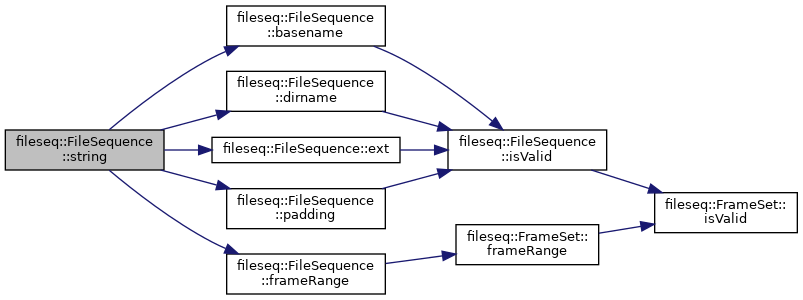
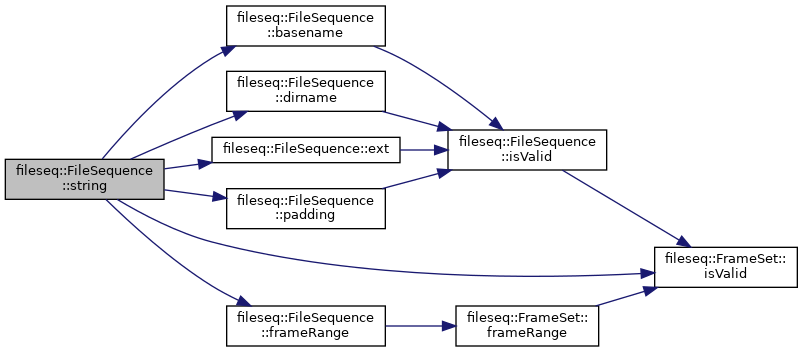
Deploying to gh-pages from  @ 2945e64885de763943607aee84610ac031805a93 🚀

Changed region(s): [[0.0, 0.0, 0.9963, 0.99]]

diff --git a/cpp/classfileseq_1_1FileSequence.html b/cpp/classfileseq_1_1FileSequence.html
@@ -446,19 +446,19 @@ Here is the call graph for this function:</div>
 <div class="dyncontent">
 <div class="center"><img src="classfileseq_1_1FileSequence_abfd5119cca762494812e1708d451a854_cgraph.png" border="0" usemap="#aclassfileseq_1_1FileSequence_abfd5119cca762494812e1708d451a854_cgraph" alt=""/></div>
 <map name="aclassfileseq_1_1FileSequence_abfd5119cca762494812e1708d451a854_cgraph" id="aclassfileseq_1_1FileSequence_abfd5119cca762494812e1708d451a854_cgraph">
-<area shape="rect" title=" " alt="" coords="5,149,164,191"/>
-<area shape="rect" href="classfileseq_1_1FileSequence.html#a54bcf839d417f53f5517990b13e65de1" title=" " alt="" coords="441,100,600,141"/>
-<area shape="rect" href="classfileseq_1_1FileSequence.html#aa64b80899eebaa347e8ca2d6ac0deeb4" title=" " alt="" coords="212,35,379,76"/>
-<area shape="rect" href="classfileseq_1_1FileSequence.html#aab5d82469fc7296ac7c212bbf806f4a4" title=" " alt="" coords="663,231,821,272"/>
-<area shape="rect" href="classfileseq_1_1FileSequence.html#a31670fc375b42ac11a8e5b9b1fb37550" title=" " alt="" coords="216,215,375,256"/>
-<area shape="rect" href="classfileseq_1_1FrameSet.html#aa0fe9ca91313bae1f53259ed335173ed" title=" " alt="" coords="671,100,813,141"/>
-<area shape="rect" href="classfileseq_1_1FrameSet.html#ad21ec89be706fa51cbcfaa54ea9d06f1" title="Return whether the FrameSet is properly parsed and valid as a range." alt="" coords="869,100,1012,141"/>
-<area shape="rect" href="classfileseq_1_1FrameSet.html#ae25d6ad884ac8551c23993ba60d7cb07" title=" " alt="" coords="663,5,821,47"/>
-<area shape="rect" href="classfileseq_1_1FileSequence.html#a3caef0f425d08e88b6f98a16248b61e5" title=" " alt="" coords="441,35,600,76"/>
-<area shape="rect" href="classfileseq_1_1FileSequence.html#a9f1f61df010ce00c74a5467b4d662139" title=" " alt="" coords="441,231,600,272"/>
-<area shape="rect" href="classfileseq_1_1FileSequence.html#af7e598b352ff7a6cd22b419fd7c17f0f" title=" " alt="" coords="441,296,600,337"/>
-<area shape="rect" href="classfileseq_1_1FileSequence.html#a5f9e2963d9aaa9acbbb03ce9272253cd" title=" " alt="" coords="427,362,615,389"/>
-<area shape="rect" href="classfileseq_1_1FileSequence.html#a9c1e99d9a9076bb0a19059d4db513502" title=" " alt="" coords="441,165,600,207"/>
+<area shape="rect" title=" " alt="" coords="5,119,164,161"/>
+<area shape="rect" href="classfileseq_1_1FileSequence.html#a54bcf839d417f53f5517990b13e65de1" title=" " alt="" coords="441,90,600,131"/>
+<area shape="rect" href="classfileseq_1_1FileSequence.html#aa64b80899eebaa347e8ca2d6ac0deeb4" title=" " alt="" coords="212,25,379,66"/>
+<area shape="rect" href="classfileseq_1_1FileSequence.html#aab5d82469fc7296ac7c212bbf806f4a4" title=" " alt="" coords="663,207,821,249"/>
+<area shape="rect" href="classfileseq_1_1FileSequence.html#a31670fc375b42ac11a8e5b9b1fb37550" title=" " alt="" coords="216,273,375,314"/>
+<area shape="rect" href="classfileseq_1_1FrameSet.html#aa0fe9ca91313bae1f53259ed335173ed" title=" " alt="" coords="671,117,813,158"/>
+<area shape="rect" href="classfileseq_1_1FrameSet.html#ad21ec89be706fa51cbcfaa54ea9d06f1" title="Return whether the FrameSet is properly parsed and valid as a range." alt="" coords="869,162,1012,203"/>
+<area shape="rect" href="classfileseq_1_1FrameSet.html#ae25d6ad884ac8551c23993ba60d7cb07" title=" " alt="" coords="663,9,821,50"/>
+<area shape="rect" href="classfileseq_1_1FileSequence.html#a3caef0f425d08e88b6f98a16248b61e5" title=" " alt="" coords="441,25,600,66"/>
+<area shape="rect" href="classfileseq_1_1FileSequence.html#a9f1f61df010ce00c74a5467b4d662139" title=" " alt="" coords="441,207,600,249"/>
+<area shape="rect" href="classfileseq_1_1FileSequence.html#af7e598b352ff7a6cd22b419fd7c17f0f" title=" " alt="" coords="441,273,600,314"/>
+<area shape="rect" href="classfileseq_1_1FileSequence.html#a5f9e2963d9aaa9acbbb03ce9272253cd" title=" " alt="" coords="427,339,615,365"/>
+<area shape="rect" href="classfileseq_1_1FileSequence.html#a9c1e99d9a9076bb0a19059d4db513502" title=" " alt="" coords="441,390,600,431"/>
 </map>
 </div>
 
@@ -609,20 +609,20 @@ Here is the call graph for this function:</div>
 <div class="dyncontent">
 <div class="center"><img src="classfileseq_1_1FileSequence_ac84cfed04bd91ea024b9c263c8689636_cgraph.png" border="0" usemap="#aclassfileseq_1_1FileSequence_ac84cfed04bd91ea024b9c263c8689636_cgraph" alt=""/></div>
 <map name="aclassfileseq_1_1FileSequence_ac84cfed04bd91ea024b9c263c8689636_cgraph" id="aclassfileseq_1_1FileSequence_ac84cfed04bd91ea024b9c263c8689636_cgraph">
-<area shape="rect" title=" " alt="" coords="5,190,164,232"/>
-<area shape="rect" href="classfileseq_1_1FileSequence.html#aa0ac049cc72d0d9f41e0a520ff696d41" title=" " alt="" coords="212,157,371,198"/>
-<area shape="rect" href="classfileseq_1_1FrameSet.html#ad21ec89be706fa51cbcfaa54ea9d06f1" title="Return whether the FrameSet is properly parsed and valid as a range." alt="" coords="861,294,1004,336"/>
-<area shape="rect" href="classfileseq_1_1FrameSet.html#abe148f0686f029e54040d89e29985252" title=" " alt="" coords="441,412,584,453"/>
-<area shape="rect" href="classfileseq_1_1FileSequence.html#a31670fc375b42ac11a8e5b9b1fb37550" title=" " alt="" coords="212,222,371,264"/>
-<area shape="rect" href="classfileseq_1_1FileSequence.html#a9f1f61df010ce00c74a5467b4d662139" title=" " alt="" coords="433,98,592,140"/>
-<area shape="rect" href="classfileseq_1_1FileSequence.html#af7e598b352ff7a6cd22b419fd7c17f0f" title=" " alt="" coords="433,164,592,205"/>
-<area shape="rect" href="classfileseq_1_1FileSequence.html#a5f9e2963d9aaa9acbbb03ce9272253cd" title=" " alt="" coords="419,230,607,256"/>
+<area shape="rect" title=" " alt="" coords="5,194,164,235"/>
+<area shape="rect" href="classfileseq_1_1FileSequence.html#aa0ac049cc72d0d9f41e0a520ff696d41" title=" " alt="" coords="212,161,371,202"/>
+<area shape="rect" href="classfileseq_1_1FrameSet.html#ad21ec89be706fa51cbcfaa54ea9d06f1" title="Return whether the FrameSet is properly parsed and valid as a range." alt="" coords="861,369,1004,410"/>
+<area shape="rect" href="classfileseq_1_1FrameSet.html#abe148f0686f029e54040d89e29985252" title=" " alt="" coords="441,489,584,530"/>
+<area shape="rect" href="classfileseq_1_1FileSequence.html#a31670fc375b42ac11a8e5b9b1fb37550" title=" " alt="" coords="212,226,371,267"/>
+<area shape="rect" href="classfileseq_1_1FileSequence.html#a9f1f61df010ce00c74a5467b4d662139" title=" " alt="" coords="433,98,592,139"/>
+<area shape="rect" href="classfileseq_1_1FileSequence.html#af7e598b352ff7a6cd22b419fd7c17f0f" title=" " alt="" coords="433,163,592,205"/>
+<area shape="rect" href="classfileseq_1_1FileSequence.html#a5f9e2963d9aaa9acbbb03ce9272253cd" title=" " alt="" coords="419,229,607,256"/>
 <area shape="rect" href="classfileseq_1_1FileSequence.html#a3caef0f425d08e88b6f98a16248b61e5" title=" " alt="" coords="433,33,592,74"/>
 <area shape="rect" href="classfileseq_1_1FileSequence.html#aab5d82469fc7296ac7c212bbf806f4a4" title=" " alt="" coords="655,193,813,234"/>
-<area shape="rect" href="classfileseq_1_1FrameSet.html#a2e8449b94cd965b6642783dcb02f6e31" title=" " alt="" coords="663,412,805,453"/>
-<area shape="rect" href="classfileseq_1_1FileSequence.html#a54bcf839d417f53f5517990b13e65de1" title=" " alt="" coords="433,346,592,388"/>
+<area shape="rect" href="classfileseq_1_1FrameSet.html#a2e8449b94cd965b6642783dcb02f6e31" title=" " alt="" coords="663,515,805,557"/>
+<area shape="rect" href="classfileseq_1_1FileSequence.html#a54bcf839d417f53f5517990b13e65de1" title=" " alt="" coords="433,398,592,439"/>
 <area shape="rect" href="classfileseq_1_1FileSequence.html#a9c1e99d9a9076bb0a19059d4db513502" title=" " alt="" coords="433,281,592,322"/>
-<area shape="rect" href="classfileseq_1_1FrameSet.html#aa0fe9ca91313bae1f53259ed335173ed" title=" " alt="" coords="663,294,805,336"/>
+<area shape="rect" href="classfileseq_1_1FrameSet.html#aa0fe9ca91313bae1f53259ed335173ed" title=" " alt="" coords="663,398,805,439"/>
 </map>
 </div>
 
@@ -1052,15 +1052,15 @@ Here is the call graph for this function:</div>
 <div class="dyncontent">
 <div class="center"><img src="classfileseq_1_1FileSequence_a31670fc375b42ac11a8e5b9b1fb37550_cgraph.png" border="0" usemap="#aclassfileseq_1_1FileSequence_a31670fc375b42ac11a8e5b9b1fb37550_cgraph" alt=""/></div>
 <map name="aclassfileseq_1_1FileSequence_a31670fc375b42ac11a8e5b9b1fb37550_cgraph" id="aclassfileseq_1_1FileSequence_a31670fc375b42ac11a8e5b9b1fb37550_cgraph">
-<area shape="rect" title=" " alt="" coords="5,129,164,171"/>
+<area shape="rect" title=" " alt="" coords="5,159,164,200"/>
 <area shape="rect" href="classfileseq_1_1FileSequence.html#a9f1f61df010ce00c74a5467b4d662139" title=" " alt="" coords="227,5,385,47"/>
+<area shape="rect" href="classfileseq_1_1FrameSet.html#ad21ec89be706fa51cbcfaa54ea9d06f1" title="Return whether the FrameSet is properly parsed and valid as a range." alt="" coords="655,247,797,288"/>
 <area shape="rect" href="classfileseq_1_1FileSequence.html#af7e598b352ff7a6cd22b419fd7c17f0f" title=" " alt="" coords="227,71,385,112"/>
 <area shape="rect" href="classfileseq_1_1FileSequence.html#a5f9e2963d9aaa9acbbb03ce9272253cd" title=" " alt="" coords="212,137,400,163"/>
-<area shape="rect" href="classfileseq_1_1FileSequence.html#a54bcf839d417f53f5517990b13e65de1" title=" " alt="" coords="227,253,385,295"/>
+<area shape="rect" href="classfileseq_1_1FileSequence.html#a54bcf839d417f53f5517990b13e65de1" title=" " alt="" coords="227,305,385,347"/>
 <area shape="rect" href="classfileseq_1_1FileSequence.html#a9c1e99d9a9076bb0a19059d4db513502" title=" " alt="" coords="227,188,385,229"/>
 <area shape="rect" href="classfileseq_1_1FileSequence.html#aab5d82469fc7296ac7c212bbf806f4a4" title=" " alt="" coords="448,129,607,171"/>
-<area shape="rect" href="classfileseq_1_1FrameSet.html#ad21ec89be706fa51cbcfaa54ea9d06f1" title="Return whether the FrameSet is properly parsed and valid as a range." alt="" coords="655,192,797,233"/>
-<area shape="rect" href="classfileseq_1_1FrameSet.html#aa0fe9ca91313bae1f53259ed335173ed" title=" " alt="" coords="456,224,599,265"/>
+<area shape="rect" href="classfileseq_1_1FrameSet.html#aa0fe9ca91313bae1f53259ed335173ed" title=" " alt="" coords="456,305,599,347"/>
 </map>
 </div>
 

diff --git a/cpp/CHANGES.html b/cpp/CHANGES.html
@@ -88,6 +88,12 @@ $(document).ready(function(){initNavTree('CHANGES.html',''); initResizable(); })
 <div class="contents">
 <div class="textblock"><pre class="fragment">Changes:
 
+2.13.0
+----------------
+
+* #28 cpp - fix findSequence(s)OnDisk to set invalid/empty FrameSet on FileSequence if it has no range
+* cpp - FileSequence.string() should omit padding characters if there is no valid FrameSet
+
 2.12.0
 ----------------
 
